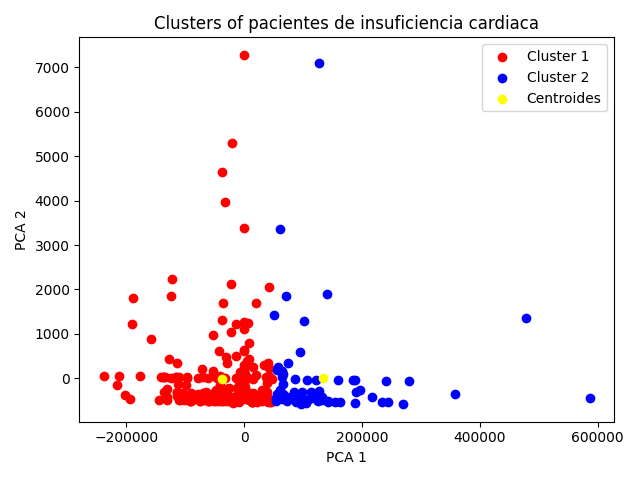
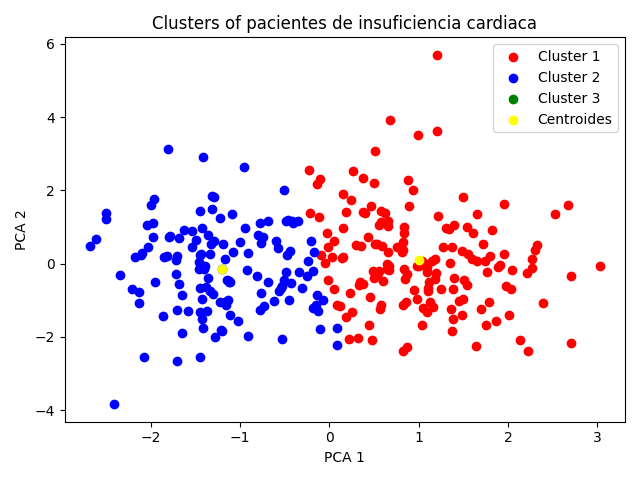
error normalizando

diff --git a/main_seed.py b/main_seed.py
@@ -41,16 +41,16 @@ for instance in attributes_info:
 features = dataset.iloc[:, 0:7]
 features_aux=features.values
 #Imprimiendo las instancias de las variables de entrada
-print(features)
+#print(features)
 #Definimos el atributo que es el último atributo
 target = dataset.iloc[:, -1]
 #Imprimiendo las instancias de la variable destino
-print(target)
+#print(target)
 
 #Analisis de correlacion
 correlation_matrix=features.corr()
-print("Matriz de correlacion")
-print(correlation_matrix)
+#print("Matriz de correlacion")
+#print(correlation_matrix)
 df=pd.DataFrame(correlation_matrix)
 df.to_csv('./Data/semilla/correlacion.csv', index=False)
 
@@ -77,12 +77,12 @@ plt.xlabel('Componente principal')
 plt.title('Screen plot')
 plt.show()
 #imprimiendo el porcentaje de varianza explicada por cada componente
-for x in range(1,len(per_var)+1):
-    print("PC"+str(x), "Percentage", per_var[x-1])
+#for x in range(1,len(per_var)+1):
+#    print("PC"+str(x), "Percentage", per_var[x-1])
 
 #Planteamos los datos como la relacion lineal de solamente dos componentes
 pca = PCA(n_components = 2)
-dataset_questions_pca = pca.fit_transform(features)
+dataset_questions_pca = pca.fit_transform(scaled_data)
 
 #Analizamos la cantidad de cluster a partir de la informacion obtenida de la relacion lineal del pca
 #Aplico el metodo del codo sobre el conjunto de datos
@@ -101,7 +101,7 @@ plt.show()
 model = KMeans()
 visualizer = KElbowVisualizer(model, k=(1,10))
 #Se normalizan los datos en el visualizador
-visualizer.fit(features)
+visualizer.fit(scaled_data)
 #Se muestran los datos en el visualizador del metodo del codo
 visualizer.show()
 #Aplicamos K-Means sobre el conjunto de datos original para 3 clusters
@@ -111,27 +111,28 @@ kmeans = KMeans(n_clusters=3,
                   n_init=10,
                   random_state=0)
 
-kmeans.fit(features)
-cluster_labels = kmeans.fit_predict(features)
+kmeans.fit(scaled_data)
+cluster_labels = kmeans.fit_predict(scaled_data)
 initial_centroids=kmeans.cluster_centers_
-print("Centroides iniciales")
-for instance in initial_centroids:
-    print(instance)
+#print("Centroides iniciales")
+#for instance in initial_centroids:
+#    print(instance)
 
-silhouette_avg = metrics.silhouette_score(features, cluster_labels)
+silhouette_avg = metrics.silhouette_score(scaled_data, cluster_labels)
 print ('El coeficiente de silueta del agrupamiento es = ', silhouette_avg)
 purity = purity_score(target, cluster_labels)
 print ('Pureza del clustering realizado = ', purity)
 
-points_summarize=[]
+"""points_summarize=[]
 for obj in range(len(cluster_labels)):
     #print('Instancia '+(str(obj+1)), 'Cluster',cluster_labels[obj])
     find(points_summarize,cluster_labels[obj])
 print("Contador de clusters",points_summarize)
+"""
 
-plt.scatter(features_aux[cluster_labels==0,0],features_aux[cluster_labels==0,1],c='red',label='Cluster I')
-plt.scatter(features_aux[cluster_labels==1,0],features_aux[cluster_labels==1,1],c='blue',label='Cluster II')
-plt.scatter(features_aux[cluster_labels==2,0],features_aux[cluster_labels==2,1],c='green',label='Cluster III')
+plt.scatter(scaled_data[cluster_labels==0,0],scaled_data[cluster_labels==0,1],c='red',label='Cluster I')
+plt.scatter(scaled_data[cluster_labels==1,0],scaled_data[cluster_labels==1,1],c='blue',label='Cluster II')
+plt.scatter(scaled_data[cluster_labels==2,0],scaled_data[cluster_labels==2,1],c='green',label='Cluster III')
 plt.scatter(initial_centroids[:,0],initial_centroids[:,1],c='yellow',label='Centroides')
 
 plt.title("KMeans Clustering")
@@ -144,6 +145,8 @@ plt.show()
 kmeans = KMeans(n_clusters = 3, init = 'k-means++',max_iter=300,n_init=10,random_state=0)
 y_kmeans = kmeans.fit_predict(dataset_questions_pca)
 initial_centroids=kmeans.cluster_centers_
+
+"""
 points_summarize=[]
 for obj in range(len(y_kmeans)):
     #print('Instancia '+(str(obj+1)), 'Cluster',y_kmeans[obj])
@@ -159,7 +162,7 @@ print("Total de elementos distintos de cada clustering",distintos);
 print("Centroides iniciales")
 for instance in initial_centroids:
     print(instance)
-
+"""
 plt.scatter(dataset_questions_pca[y_kmeans == 0, 0], dataset_questions_pca[y_kmeans == 0, 1], c = 'red', label = 'Cluster 1')
 plt.scatter(dataset_questions_pca[y_kmeans == 1, 0], dataset_questions_pca[y_kmeans == 1, 1], c = 'blue', label = 'Cluster 2')
 plt.scatter(dataset_questions_pca[y_kmeans == 2, 0], dataset_questions_pca[y_kmeans == 2, 1], c = 'green', label = 'Cluster 3')

diff --git a/main_heart.py b/main_heart.py
@@ -34,20 +34,21 @@ dataset = pd.read_csv('Data/heart/heart.csv')
 features = dataset.iloc[:, 0:12]
 features_aux=features.values
 #Imprimiendo las instancias de las variables de entrada
-print(features)
+#print(features)
 #Definimos el atributo que es el último atributo
 target = dataset.iloc[:, -1]
 #Imprimiendo las instancias de la variable destino
-print(target)
+#print(target)
 #Analisis de correlacion
 correlation_matrix=features.corr()
-print("Matriz de correlacion")
-print(correlation_matrix)
+#print("Matriz de correlacion")
+#print(correlation_matrix)
 df=pd.DataFrame(correlation_matrix)
 df.to_csv('./Data/heart/correlacion.csv', index=False)
 #PCA
 #dicha funcion scale lo que hace es centrar y escalar los datos
 scaled_data=preprocessing.scale(features)
+
 pca=PCA()
 #Aqui se hacen los calculos de PCA
 pca.fit(scaled_data)
@@ -70,7 +71,7 @@ for x in range(1,len(per_var)+1):
 
 #Planteamos los datos como la relacion lineal de solamente dos componentes
 pca = PCA(n_components = 2)
-dataset_questions_pca = pca.fit_transform(features)
+dataset_questions_pca = pca.fit_transform(scaled_data)
 
 #Analizamos la cantidad de cluster a partir de la informacion obtenida de la relacion lineal del pca
 #Aplico el metodo del codo sobre el conjunto de datos
@@ -90,20 +91,20 @@ plt.show()
 kmeans = KMeans(n_clusters = 2, init = 'k-means++',max_iter=300,n_init=10,random_state=1)
 y_kmeans = kmeans.fit_predict(dataset_questions_pca)
 initial_centroids=kmeans.cluster_centers_
-
+"""
 print("Centroides iniciales")
 for instance in initial_centroids:
     print(instance)
+"""
 
-
-silhouette_avg = metrics.silhouette_score(features, y_kmeans)
+silhouette_avg = metrics.silhouette_score(scaled_data, y_kmeans)
 print ('El coeficiente de silueta del agrupamiento es = ', silhouette_avg)
 purity = purity_score(target, y_kmeans)
 print ('Pureza del clustering realizado = ', purity)
 
 plt.scatter(dataset_questions_pca[y_kmeans == 0, 0], dataset_questions_pca[y_kmeans == 0, 1], c = 'red', label = 'Cluster 1')
 plt.scatter(dataset_questions_pca[y_kmeans == 1, 0], dataset_questions_pca[y_kmeans == 1, 1], c = 'blue', label = 'Cluster 2')
-#plt.scatter(dataset_questions_pca[y_kmeans == 2, 0], dataset_questions_pca[y_kmeans == 2, 1], c = 'green', label = 'Cluster 3')
+plt.scatter(dataset_questions_pca[y_kmeans == 2, 0], dataset_questions_pca[y_kmeans == 2, 1], c = 'green', label = 'Cluster 3')
 plt.scatter(kmeans.cluster_centers_[:, 0], kmeans.cluster_centers_[:, 1], c = 'yellow', label = 'Centroides')
 plt.title('Clusters of pacientes de insuficiencia cardiaca')
 plt.xlabel('PCA 1')
@@ -111,6 +112,7 @@ plt.ylabel('PCA 2')
 plt.legend()
 plt.show()
 
+"""
 points_summarize=[]
 for obj in range(len(y_kmeans)):
     #print('Instancia '+(str(obj+1)), 'Cluster',cluster_labels[obj])
@@ -137,4 +139,4 @@ scatter(dataset_questions_pca[:,0], dataset_questions_pca[:,1], ax=axes[0])
 scatter(dataset_questions_pca[:,0], dataset_questions_pca[:,1], ax=axes[1], hue=fcm_labels)
 scatter(fcm_centers[:,0], fcm_centers[:,1], ax=axes[1],marker="s",s=200)
 plt.show()
-
+"""

diff --git a/main_student.py b/main_student.py
@@ -7,6 +7,7 @@ from sklearn.cluster import KMeans
 from sklearn import metrics
 import collections
 from sklearn.cluster import AgglomerativeClustering
+from sklearn import preprocessing
 import scipy.cluster.hierarchy as sch
 sns.set_style('whitegrid')
 
@@ -117,8 +118,10 @@ correlation_matrix=dataset_questions.corr()
 df=pd.DataFrame(correlation_matrix)
 df.to_csv('./Data/student/correlacion.csv', index=False)
 
+scaled_data=preprocessing.scale(dataset_questions)
+
 pca = PCA(n_components = 2)
-dataset_questions_pca = pca.fit_transform(dataset_questions)
+dataset_questions_pca = pca.fit_transform(scaled_data)
 
 #Aplico el metodo del codo sobre el conjunto de datos
 wcss = []
@@ -133,14 +136,14 @@ plt.title('The Elbow Method')
 plt.xlabel('Number of clusters')
 plt.ylabel('WCSS')
 plt.show()
-
+"""
 for i in range(2, 7):
     print("VALOR DE K=",i)
     kmeans = KMeans(n_clusters = i, init = 'k-means++', random_state = 42)
     cluster_labels=kmeans.fit_predict(dataset_questions_pca)
     silhouette_avg = metrics.silhouette_score(dataset_questions_pca, cluster_labels)
     print ('El coeficiente de silueta del agrupamiento es = ', silhouette_avg)
-
+"""
 
 kmeans = KMeans(n_clusters = 3, init = 'k-means++')
 y_kmeans = kmeans.fit_predict(dataset_questions_pca)
@@ -162,7 +165,7 @@ plt.title('Dendrogram')
 plt.xlabel('questions')
 plt.ylabel('Euclidean distances')
 plt.show()
-"""
+
 
 # Fitting Hierarchical Clustering to the dataset
 hc = AgglomerativeClustering(n_clusters = 2, affinity = 'euclidean', linkage = 'ward')
@@ -179,4 +182,4 @@ plt.legend()
 plt.show()
 
 print('Conteo clustering jerarquico',collections.Counter(y_hc))
-print("FINALIZO")
+"""
